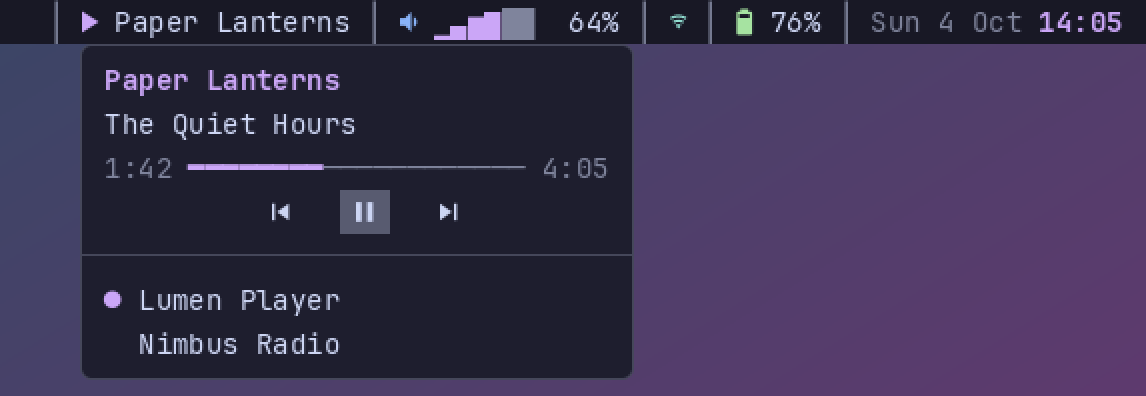
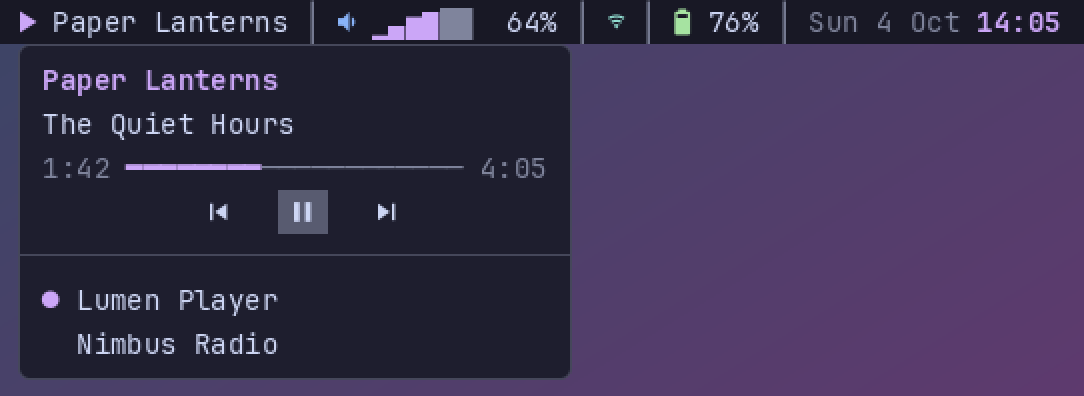
test(demon): media tests wait on the screen, the module's own connection measured; README and image
media_bar waits for the media cells instead of a 500 ms sleep; the popup-moves test syncs on the bar and asserts the popup's title row repainted with the next player's track. media_module_pss_without_and_with_players adds a mode dark run, where the module opens the session connection itself (286-395 KB, README row updated). README: RTL titles are drawn in logical order (known limitation). bar-media.png regenerated by the same program, cropped right of the separator before the media module.

Claude-Session: https://claude.ai/code/session_01HzNeDR4JYYs9cqajYqdQVP

Changed region(s): [[0.0, 0.0, 0.9742, 0.9697], [0.1827, 0.4545, 0.4262, 0.6061], [0.2435, 0.3939, 0.3044, 0.4545]]

diff --git a/crates/alpheus-demon/tests/memory.rs b/crates/alpheus-demon/tests/memory.rs
@@ -920,16 +920,36 @@ fn fake_players(session: &PrivateBus, names: &[&str]) -> Vec<FakePlayer> {
     players
 }
 
-/// Bar step 5: what the media module costs at start with no player (its session connection and
-/// match rules), and what 3 players add. Each configuration alone, its daemon gone before the next.
+/// Bar step 5: what the media module costs at start with no player, and what 3 players add. Each
+/// configuration alone, its daemon gone before the next. In mode `auto` (no `theme.toml`) the bar's
+/// session link is open anyway, for the light/dark portal: the module adds its match rules and
+/// Mpris to it. In mode `dark` nothing else opens it: the module's cost includes the connection
+/// itself (fix wave A).
 #[test]
 #[ignore = "headless sway and dbus-daemon (nix develop)"]
 fn media_module_pss_without_and_with_players() {
     require_release(cfg!(debug_assertions));
     let bus = PrivateBus::start("media-cost");
-    let measure = |name: &str, toml: &str, players: &[&str]| {
+    let measure = |name: &str, toml: &str, players: &[&str], theme: Option<&str>| {
         let session = PrivateBus::start(&format!("{name}-session"));
-        let (_sway, _hypr, d) = start(name, 1, &bus, Some(&session), Some(toml), PwDump::Silent);
+        let sway = Sway::start(name, 1);
+        if let Some(theme) = theme {
+            let config = sway.runtime.join("config/alpheus");
+            std::fs::create_dir_all(&config).unwrap();
+            std::fs::write(config.join("theme.toml"), theme).unwrap();
+        }
+        let _hypr = FakeHyprland::start(&sway.runtime, SIGNATURE);
+        let d = start_daemon_with(
+            &sway,
+            &DaemonOptions {
+                bar_toml: Some(toml),
+                system_bus: Some(&bus.address),
+                session_bus: Some(&session.address),
+                pw_dump: PwDump::Silent,
+                ..DaemonOptions::default()
+            },
+        );
+        assert!(d.wait_for("bar placed on HEADLESS-1", DELAY), "{:?}", d.log());
         // A cost of 0 must come from a module that runs, not from one that never started.
         if toml.contains("\"media\"") {
             assert!(d.wait_for("media: on the bar's session bus", DELAY), "{:?}", d.log());
@@ -938,16 +958,22 @@ fn media_module_pss_without_and_with_players() {
         std::thread::sleep(TRAY_SETTLE);
         d.pss_kb()
     };
-    let base = measure("media-cost-a", NO_MEDIA_BAR, &[]);
-    let empty = measure("media-cost-b", MEDIA_BAR, &[]);
-    let three = measure("media-cost-c", MEDIA_BAR, &["alpha", "beta", "gamma"]);
+    let base = measure("media-cost-a", NO_MEDIA_BAR, &[], None);
+    let empty = measure("media-cost-b", MEDIA_BAR, &[], None);
+    let three = measure("media-cost-c", MEDIA_BAR, &["alpha", "beta", "gamma"], None);
     let (module_cost, players_cost) = (empty.saturating_sub(base), three.saturating_sub(empty));
+    const DARK: &str = "theme = \"catppuccin\"\nmode = \"dark\"\n";
+    let dark_base = measure("media-cost-d", NO_MEDIA_BAR, &[], Some(DARK));
+    let dark_empty = measure("media-cost-e", MEDIA_BAR, &[], Some(DARK));
+    let own_link = dark_empty.saturating_sub(dark_base);
     eprintln!(
-        "media PSS (KB): {base} without the module, {empty} with it and no player (module cost {module_cost}), \
-         {three} with 3 fake players (players cost {players_cost})"
+        "media PSS (KB): mode auto (the portal's link open anyway): {base} without the module, {empty} with it and no player \
+         (module cost {module_cost}), {three} with 3 fake players (players cost {players_cost}); mode dark (no link otherwise): \
+         {dark_base} without, {dark_empty} with it and no player (module and its own connection {own_link})"
     );
     assert!(three < STARTUP_MAX_KB, "{three} KB >= 15 MB — report to Mae, never raise");
-    assert!(module_cost <= 1024, "the module alone costs {module_cost} KB (a session connection and three rules: ≤ 1 MB)");
+    assert!(module_cost <= 1024, "the module on the portal's connection costs {module_cost} KB (its rules and Mpris: ≤ 1 MB)");
+    assert!(own_link <= 1024, "the module with its own connection costs {own_link} KB (≤ 1 MB)");
     assert!(players_cost <= 512, "3 players cost {players_cost} KB (bounded strings: ≤ 512 KB)");
 }
 

diff --git a/crates/alpheus-demon/tests/headless_session.rs b/crates/alpheus-demon/tests/headless_session.rs
@@ -2005,8 +2005,16 @@ fn media_bar(name: &str, outputs: u32, extra: &[&str]) -> (PrivateBus, Sway, Fak
     for p in &players {
         assert!(p.wait_call("GetAll", DELAY).is_some(), "the daemon read every fake player: {:?}", d.log());
     }
-    std::thread::sleep(Duration::from_millis(500)); // read, drawn
+    // Read and drawn: a player plays, so the module shows in the purple (catppuccin dark).
+    let purple = rgb(preset("catppuccin").unwrap().dark.hues.purple);
+    assert!(sway.wait_for_screen("HEADLESS-1", |s| media_cells(s).contains(&purple)), "never drawn: {:?}", d.log());
     (bus, sway, hypr, d, players)
+}
+
+/// The pixels of the media popup's title row (row 0, its 30 content cells), hung from MEDIA_AT.
+fn popup_title(s: &Ppm) -> Vec<[u8; 3]> {
+    let ((x0, y), (x1, _)) = (popup_cell(0, 1, 0), popup_cell(0, 30, 0));
+    (y - 8..y + 8).flat_map(|y| (x0 - 4..x1 + 4).map(move |x| (x, y))).filter_map(|(x, y)| s.at(x, y)).collect()
 }
 
 /// Layout coordinates of the popup's cell (column, row) on a bar whose media zone starts at cell 1 at
@@ -2148,12 +2156,25 @@ fn the_tick_runs_only_while_the_popup_is_open_and_the_player_plays() {
 #[ignore = "headless sway, dbus-daemon and wtype (nix develop)"]
 fn the_popup_moves_to_the_next_player_then_closes_when_none_is_left() {
     let (_bus, sway, _hypr, d, mut players) = media_bar("media-gone", 1, &["beta"]);
-    players[1].set_status("Paused"); // lumen plays: it is the active one
-    std::thread::sleep(Duration::from_millis(500));
+    // beta, the latest to play, is active; once it pauses, lumen is, and the bar shows its title.
+    let shown = sway.screenshot("HEADLESS-1").map(|s| media_cells(&s)).unwrap();
+    players[1].set_status("Paused");
+    assert!(sway.wait_for_screen("HEADLESS-1", |s| media_cells(s) != shown), "the bar never moved to lumen: {:?}", d.log());
     sway.click(MEDIA_AT.0, MEDIA_AT.1, "button1");
-    assert!(d.wait_for("media popup shown", DELAY), "{:?}", d.log());
+    assert!(d.wait_for("media popup shown: Paper Lanterns", DELAY), "lumen active: {:?}", d.log());
+    let accent = rgb(preset("catppuccin").unwrap().dark.accent);
+    assert!(sway.wait_for_screen("HEADLESS-1", |s| popup_title(s).contains(&accent)), "the popup drawn: {:?}", d.log());
+    let before = sway.screenshot("HEADLESS-1").map(|s| popup_title(&s)).unwrap();
     players.remove(0).kill(); // lumen
-    std::thread::sleep(Duration::from_secs(1));
+    // The title row repainted with beta's track ("Second Song"), still in the accent: still open.
+    assert!(
+        sway.wait_for_screen("HEADLESS-1", |s| {
+            let t = popup_title(s);
+            t.contains(&accent) && t != before
+        }),
+        "beta's title never drawn: {:?}",
+        d.log()
+    );
     assert_eq!(d.count("popup closed"), 0, "beta is left: the popup shows it: {:?}", d.log());
     players.remove(0).kill(); // beta
     assert!(d.wait_for("popup closed (player gone)", DELAY), "{:?}", d.log());

diff --git a/README.md b/README.md
@@ -43,8 +43,8 @@ outputs). alpheus figures are release builds. Updated with every delivery.
 | Bar shapes, per style at start (all modules, 3 outputs) | flat ≈ 8.0 MB; others −76…+116 KB over flat | `startup_pss_per_style`, 3 runs (flat 8,142–8,224 KB: the same bar as the start row above); corner masks on first use −32…+88 KB (islands − flat), +36…+116 KB (floating − flat, its taller buffer included) (computed: 128 B for islands, 200 B for floating, at scale 1; one per radius and scale used) |
 | Bar shapes, 48 style switches (3 outputs; floating reconfigures every bar) | +20 KB | `style_switches_no_growth`, +20 KB in each of 3 runs; 0 loop wake-ups at rest under each of the six styles (`at_rest_no_wakeups_under_each_style`) |
 | Media, linked in but unused (no `media` in `modules`) | within noise (−52…+32 KB) vs. the delivery before this one | binary 5.24 → 5.33 MiB (+92 KiB stripped); measured `55ba754` vs this delivery, release, back to back, 3 runs each, separate target directories |
-| Media module, no player (on the bar's own session connection, tray off) | 0–4 KB | `media_module_pss_without_and_with_players`, 3 runs (7.2 MB with it, 1 output): that connection is the light/dark portal's, already open in mode `auto`; with the tray on it shares the tray's connection |
-| Media, 3 fake players | 112 KB | same test, 112 KB in each of 3 runs; at most 16 players, strings capped at 256 characters, 8 artists |
+| Media module, no player (on the bar's own session connection, tray off) | 0–4 KB in mode `auto`; 286–395 KB in a fixed mode | `media_module_pss_without_and_with_players`, 3 runs (7.2–7.3 MB with it, 1 output): in mode `auto` that connection is the light/dark portal's, already open; in a fixed mode (`dark`) the module opens it, and the figure includes the connection itself; with the tray on it shares the tray's connection |
+| Media, 3 fake players | 85–112 KB | same test, 3 runs; at most 16 players, strings capped at 256 characters, 8 artists |
 | Media, 100 track changes | +0 KB | `track_changes_no_growth`, +0 KB in each of 3 runs (the titles reuse glyphs already drawn: the glyph cache's own bound is measured by the 8,300-events row); 0 loop wake-ups at rest with a player playing and the popup closed, tray on and off (`at_rest_no_wakeups_with_a_playing_player`); the popup's 1 s tick runs only while it is open and the track plays |
 | Bar daemon, live on the author's laptop (3 outputs) | ≈ 11.3 MB | real session, all modules — predates this merge, see note below |
 | `pw-dump` child (sound source) | ≈ 2.5 MB | silent at rest |
@@ -212,7 +212,8 @@ resources from `/proc`. The tray talks to the session bus
 (StatusNotifierItem, dbusmenu): one connection on the bar's own loop, no
 thread. The media module speaks MPRIS on that same connection (or on one of its own when the tray is off,
 shared with the light/dark portal): players found at start and on arrival, their changes read from
-signals, never polled; while its popup is open the time ticks once a second, and only then. On Hyprland (any version; hyprwm/Hyprland#15729, fixed upstream in 0.56.2), the bar's keyboard interactivity stays None while a menu or the calendar grabs — detected from its `hyprland_*` globals.
+signals, never polled; while its popup is open the time ticks once a second, and only then. A known
+limitation: right-to-left titles (Arabic, Hebrew) are drawn in logical order, not reordered. On Hyprland (any version; hyprwm/Hyprland#15729, fixed upstream in 0.56.2), the bar's keyboard interactivity stays None while a menu or the calendar grabs — detected from its `hyprland_*` globals.
 
 ### The launcher
 
